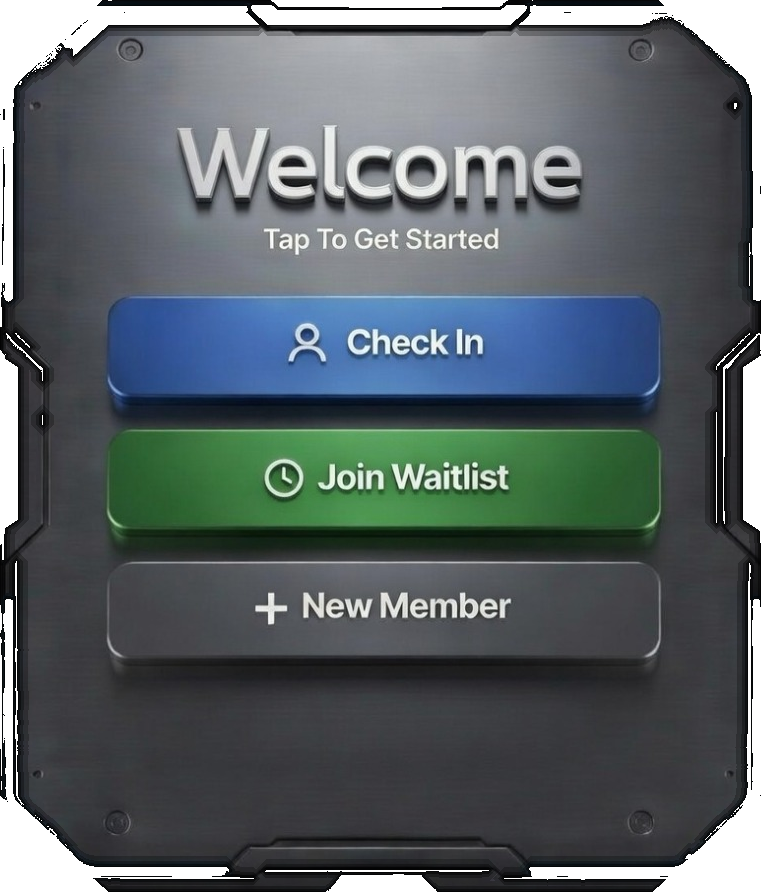
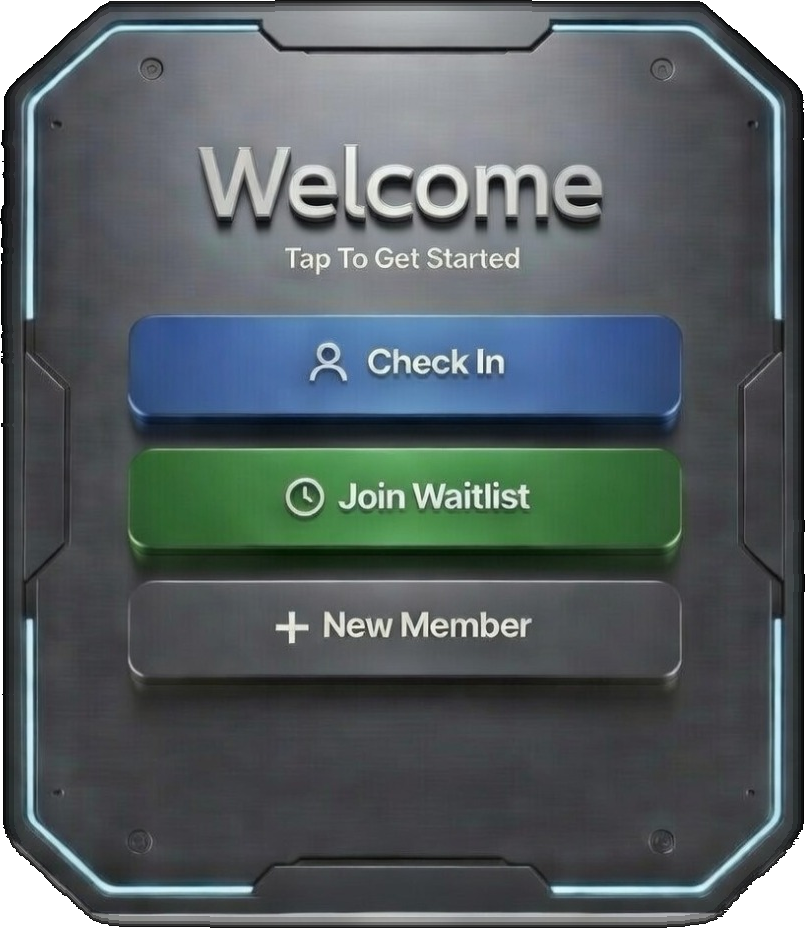
fix: v20 kiosk image from new clean source — row-by-row contour scan + 5px inset + graduated edge darkening

Changed region(s): [[0.0, 0.0, 1.0, 1.0], [0.1209, 0.1211, 0.8765, 0.6962], [0.1209, 0.6659, 0.8765, 0.7567]]

diff --git a/pages/commander/kiosk.js b/pages/commander/kiosk.js
@@ -441,7 +441,7 @@ export default function MembershipKiosk() {
             <div style={{ position: 'relative', maxWidth: '90%', maxHeight: '90%', display: 'flex' }}>
               {/* Background Image — PNG with transparent background */}
               <img
-                src="/images/commander/kiosk-welcome.png?v=19"
+                src="/images/commander/kiosk-welcome.png?v=20"
                 alt="Welcome Kiosk"
                 style={{
                   width: '100%',
